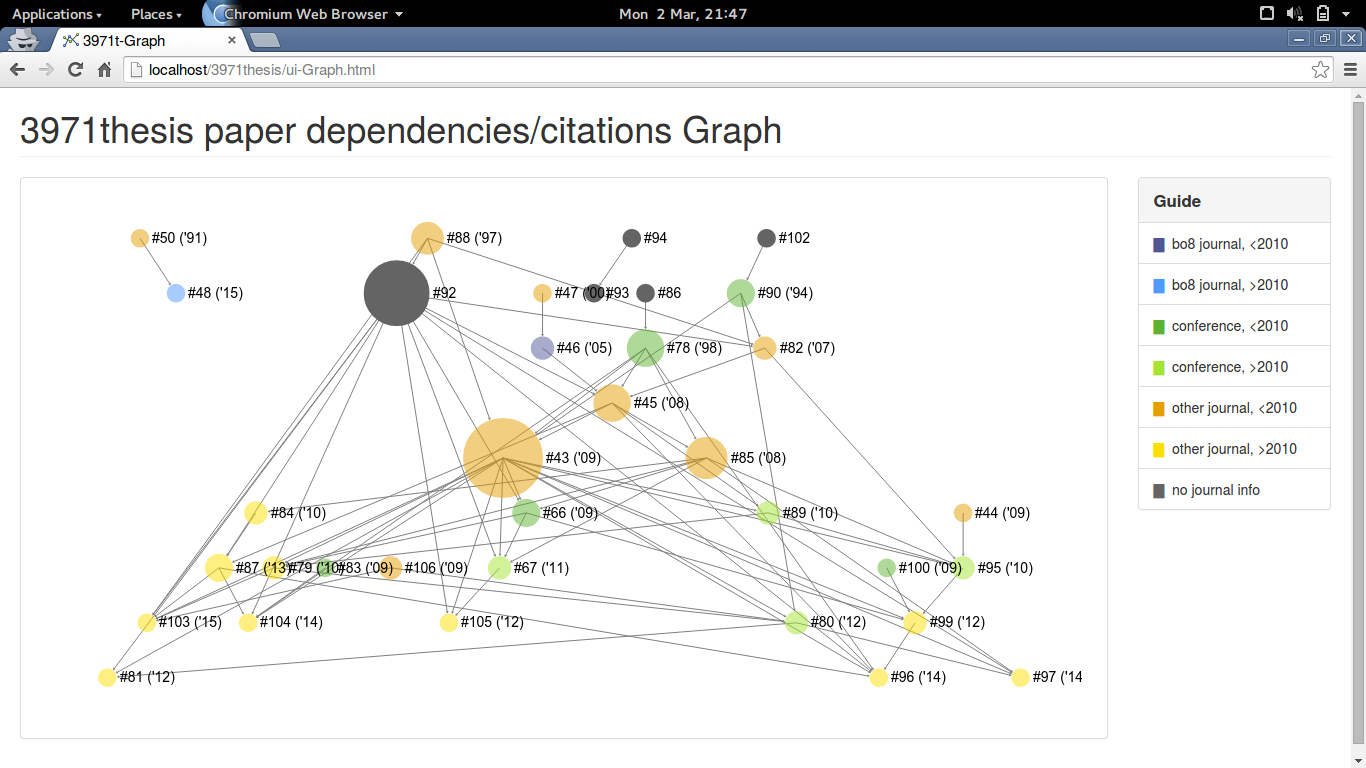
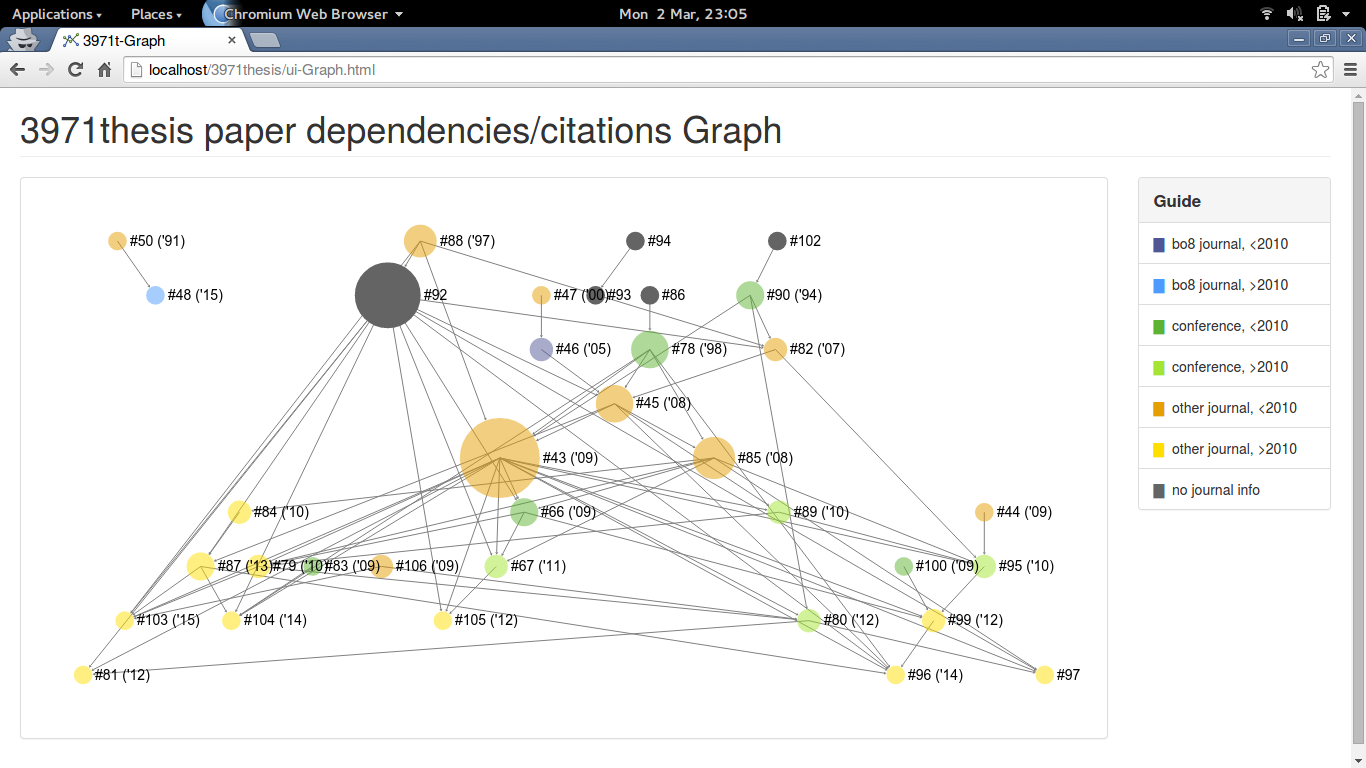
Elaborated readme with filtered graph

diff --git a/ui-Graph.applyDagre.js b/ui-Graph.applyDagre.js
@@ -5,7 +5,7 @@ function applyDagre(graphDataInput) {
 	
 	// extract nodes from input
 	for (i = 0; i < graphDataInput.nodes.length; i++) {
-		g.setNode(graphDataInput.nodes[i].id, {label: graphDataInput.nodes[i].label, width:100, height:110});
+		g.setNode(graphDataInput.nodes[i].id, {label: graphDataInput.nodes[i].label, width:100, height:100});
 	}
 	
 	// extract edges from input

diff --git a/README.md b/README.md
@@ -7,6 +7,10 @@ In the screenshot below, you see a directed graph where journal articles point u
 
 ![Screenshot](https://raw.githubusercontent.com/blairw/3971thesis/master/misc/graph-ss.png)
 
+Thanks to the magic of sigmajs, you can click on a node to highlight just that node and its neighbours (immediate citers and citees), to get a clear view of the literature contribution of a particular paper.
+
+![Screenshot](https://raw.githubusercontent.com/blairw/3971thesis/master/misc/graph-filtered-ss.png)
+
 ### 2) Assisting with literature coding
 In the screenshot below, you see a table which tracks the process of essentially filling out a form for each journal article and what kind of methodology it uses, is it relevant to the topic we are researching, etc.
 
